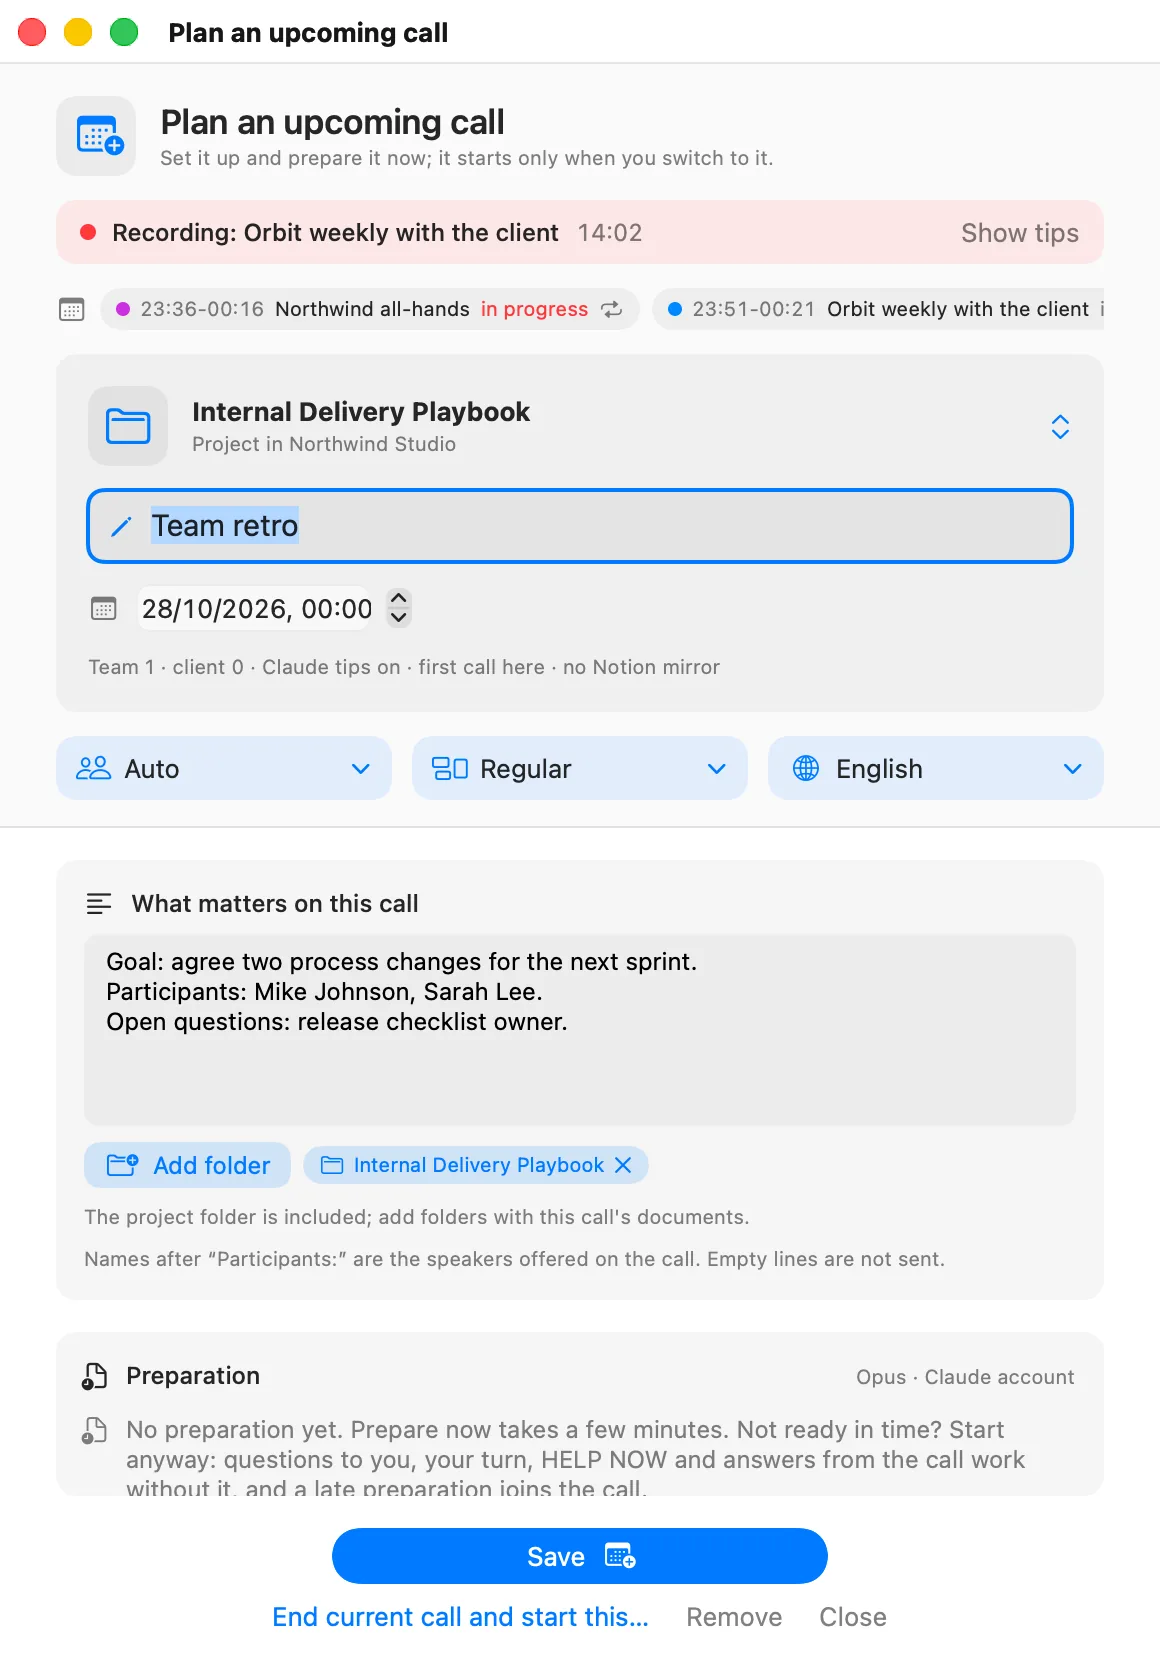
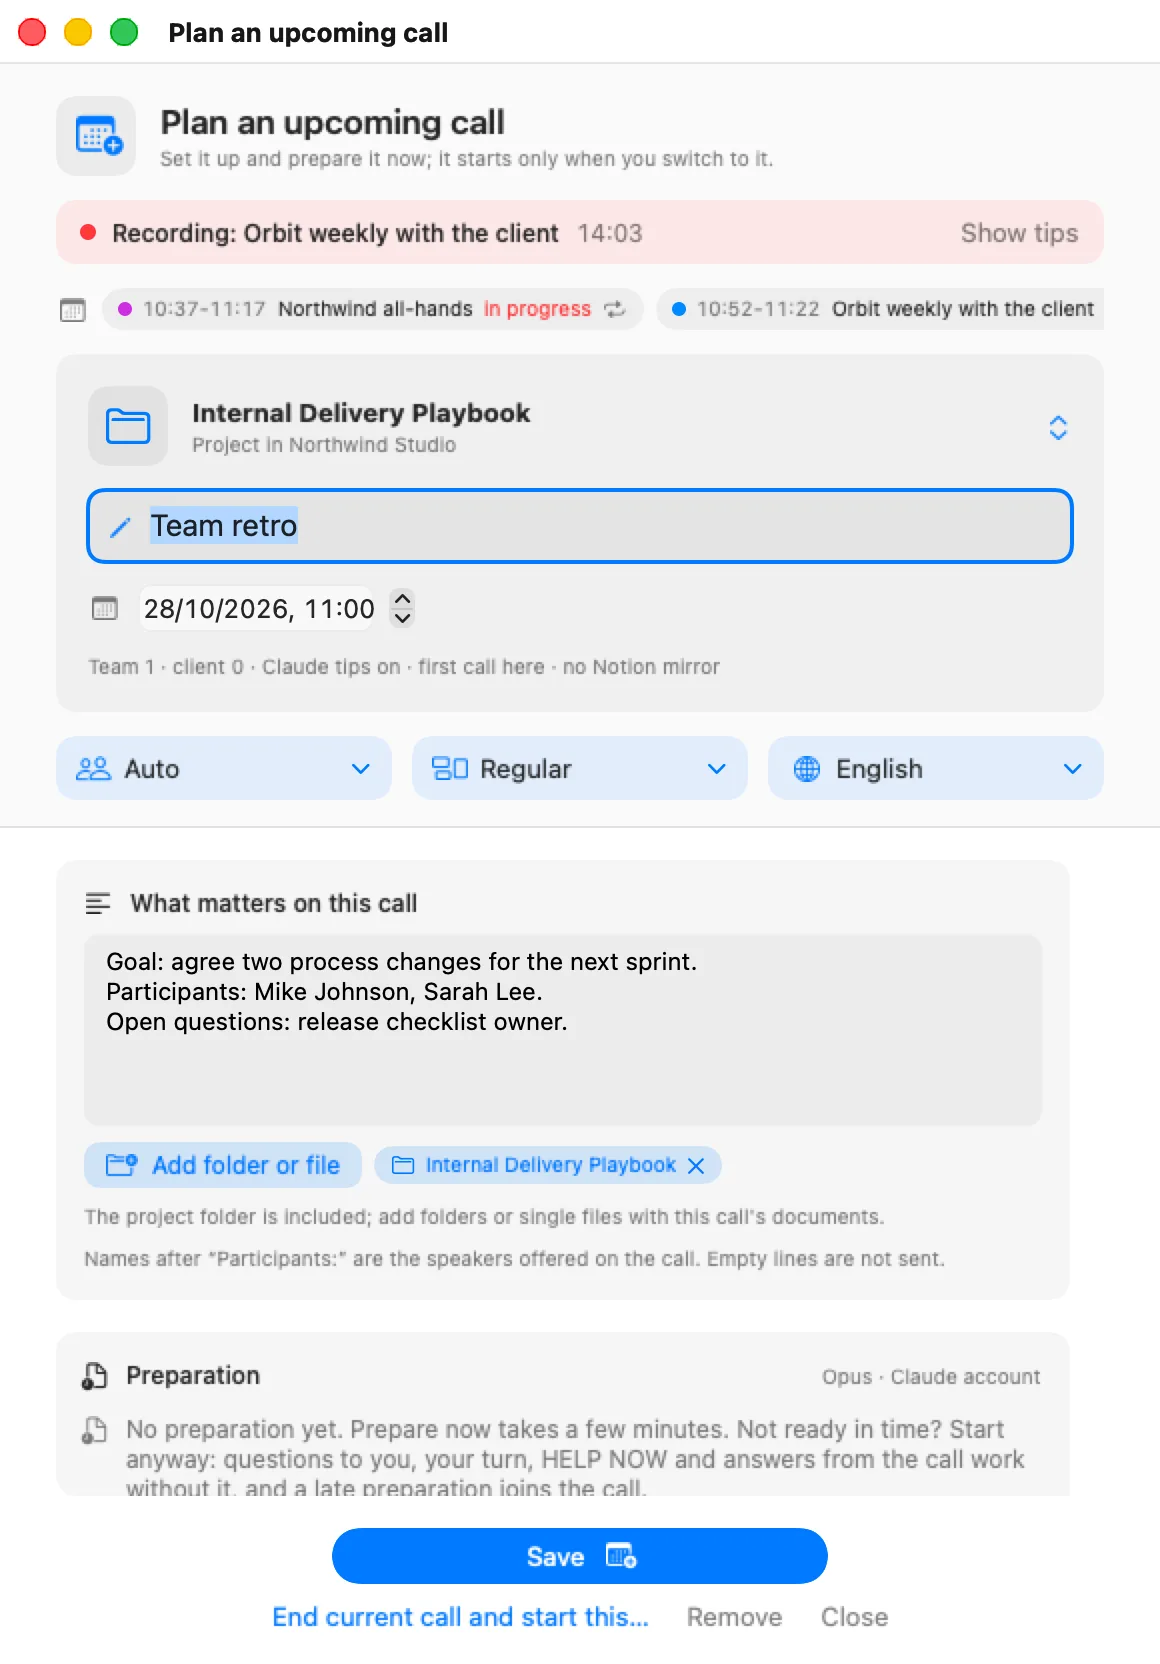
Live Tips 0.7.2: add folder or file; refreshed Start call and Prepare shots
Claude-Session: https://claude.ai/code/session_011gj7yXV1CHodtL8oe3gkkZ

diff --git a/src/content/pages/en/live-tips.md b/src/content/pages/en/live-tips.md
@@ -7,7 +7,7 @@ facts:
   - { k: Audio, v: "Stays on your Mac" }
   - { k: Cost, v: "Free app, about $0.2-0.8 of Claude per call" }
   - { k: Notes go to, v: "Notion and your project folder" }
-  - { k: Status, v: "beta 0.7.1" }
+  - { k: Status, v: "beta 0.7.2" }
 ---
 
 <div class="aimix">
@@ -63,7 +63,7 @@ Real screenshots of the app on demo data. The pictures follow the site's light o
 <div class="gallery">
 <figure class="ltshot ltshot--wide"><img class="ltshot__img ltshot--dark" src="/live-tips/shots/home-dark.webp" alt="" loading="lazy" decoding="async" /><img class="ltshot__img ltshot--light" src="/live-tips/shots/home-light.webp" alt="" loading="lazy" decoding="async" /><figcaption><b>Home.</b> The calls ahead from your calendars and Up next (overlaps marked), insights for a period, project or workspace (calls, time, Claude spend, prepared calls, minutes per day) and the calls already held with Notion, transcript and folder.</figcaption></figure>
 <figure class="ltshot ltshot--wide"><img class="ltshot__img ltshot--dark" src="/live-tips/shots/tips-dark.webp" alt="" loading="lazy" decoding="async" /><img class="ltshot__img ltshot--light" src="/live-tips/shots/tips-light.webp" alt="" loading="lazy" decoding="async" /><figcaption><b>On the call.</b> The transcript with named speakers (Team or Client), what is on you, the call summary, answers to your questions and the Help button.</figcaption></figure>
-<figure class="ltshot"><img class="ltshot__img ltshot--dark" src="/live-tips/shots/start-call-dark.webp" alt="" loading="lazy" decoding="async" /><img class="ltshot__img ltshot--light" src="/live-tips/shots/start-call-light.webp" alt="" loading="lazy" decoding="async" /><figcaption><b>Start call.</b> The project, the call's name and time, audience, type and languages, what matters on this call and the folders to read, Prepare now.</figcaption></figure>
+<figure class="ltshot"><img class="ltshot__img ltshot--dark" src="/live-tips/shots/start-call-dark.webp" alt="" loading="lazy" decoding="async" /><img class="ltshot__img ltshot--light" src="/live-tips/shots/start-call-light.webp" alt="" loading="lazy" decoding="async" /><figcaption><b>Start call.</b> The project, the call's name and time, audience, type and languages, what matters on this call and the folders or files to read, Prepare now.</figcaption></figure>
 <figure class="ltshot"><img class="ltshot__img ltshot--dark" src="/live-tips/shots/plan-call-dark.webp" alt="" loading="lazy" decoding="async" /><img class="ltshot__img ltshot--light" src="/live-tips/shots/plan-call-light.webp" alt="" loading="lazy" decoding="async" /><figcaption><b>Up next.</b> During a call, plan the next one: set it up and prepare it now, switch to it when this call ends.</figcaption></figure>
 <figure class="ltshot"><img class="ltshot__img ltshot--dark" src="/live-tips/shots/prepare-dark.webp" alt="" loading="lazy" decoding="async" /><img class="ltshot__img ltshot--light" src="/live-tips/shots/prepare-light.webp" alt="" loading="lazy" decoding="async" /><figcaption><b>Prepare.</b> Before a preparation: the project or workspace and what matters on the call, filled from the last call of a regular meeting.</figcaption></figure>
 <figure class="ltshot ltshot--wide"><img class="ltshot__img ltshot--dark" src="/live-tips/shots/tips-presentation-dark.webp" alt="" loading="lazy" decoding="async" /><img class="ltshot__img ltshot--light" src="/live-tips/shots/tips-presentation-light.webp" alt="" loading="lazy" decoding="async" /><figcaption><b>Presentation mode.</b> Your slides with the speech, a timer per slide and the tips next to them.</figcaption></figure>

diff --git a/src/content/pages/uk/changelog.md b/src/content/pages/uk/changelog.md
@@ -12,6 +12,7 @@ facts:
 
 | Версія | Дата | Що змінилось |
 |---|---|---|
+| Live Tips 0.7.2 beta | 2026-10-28 | **Add folder or file:** Start call і форма Prepare приймають цілі папки або окремі файли (один документ із Downloads, а не всю папку); у формі Prepare тепер теж є ця кнопка. |
 | Live Tips 0.7.1 beta | 2026-10-28 | **Виправлення карток на місці:** заголовок, фраза і пункти картки, прибрати пункти чи картку; On me: прибрати, виправити, додати. Виправлення діють до кінця дзвінка і йдуть у підсумок Notion як правда. **Підготовка як документ:** панель Preparation поруч із підказками і Read prep до дзвінка, обидва з редагуванням; підказки одразу перечитують виправлену підготовку. Менше, але точніших карток з попередніх зустрічей (скіл v55). |
 | Live Tips 0.7.0 beta | 2026-10-28 | **Інтерактивні Insights на Home:** період (сьогодні, цей чи минулий тиждень, місяць, 30 днів, свої дати) і проєкт чи воркспейс, клік по дню на графіку, дзвінки вибірки. **Глибша підготовка:** останні 3 дзвінки тієї самої зустрічі читаються повністю, а бриф має розділ Previous meetings (що обговорювали, питання і чи на них відповіли, відкриті пункти, action items з відповідальними і статусом). У вузькому Home Insights зверху і нижчі, у широкому поруч із дзвінками; недавні дзвінки показують 8 і Show all. |
 | Live Tips 0.6.9 beta | 2026-10-27 | **Home першим.** Сайт і аппка відкриваються з Home; у широкому вікні цей тиждень стоїть поруч із дзвінками. **Цифри можна сховати для демо:** Settings > General ховає цифри тижня, графік і місячні витрати. Нові скріни: Home, Prepare. |

diff --git a/src/content/pages/en/changelog.md b/src/content/pages/en/changelog.md
@@ -12,6 +12,7 @@ facts:
 
 | Version | Date | What changed |
 |---|---|---|
+| Live Tips 0.7.2 beta | 2026-10-28 | **Add folder or file:** Start call and the Prepare form take whole folders or single files (one document from Downloads, not the whole folder); the Prepare form now has the button too. |
 | Live Tips 0.7.1 beta | 2026-10-28 | **Correct cards in place:** edit a card's heading, phrase and points, remove points or the card; On me: remove, correct, add. Corrections stay for the call and go to the Notion summary as true. **The preparation as a document:** a Preparation pane next to the tips and Read prep before the call, both editable; the tips reload a corrected preparation at once. Fewer, surer cards from previous meetings (skill v55). |
 | Live Tips 0.7.0 beta | 2026-10-28 | **Interactive insights on Home:** choose the period (today, this or last week, this month, 30 days, your dates) and a project or workspace, click a day in the chart to see it, open the calls of the selection. **Deeper preparation:** the last 3 calls of the same meeting are read in full, and the brief gets a Previous meetings section (what was discussed, questions and whether they were answered, open items, action items with owners and status). A narrow Home shows insights on top, lower; a wide one next to the calls; recent calls show 8 with Show all. |
 | Live Tips 0.6.9 beta | 2026-10-27 | **Home first.** The site and the app open on Home; a wide Home puts this week next to the calls. **Numbers off for a demo:** Settings > General hides this week's numbers, the chart and the monthly spend. New screenshots: Home, Prepare. |

diff --git a/src/content/pages/uk/live-tips.md b/src/content/pages/uk/live-tips.md
@@ -7,7 +7,7 @@ facts:
   - { k: Звук, v: "Лишається на вашому Маку" }
   - { k: Вартість, v: "Застосунок безкоштовний, Claude близько $0.2-0.8 за дзвінок" }
   - { k: Нотатки йдуть у, v: "Notion і папку проєкту" }
-  - { k: Статус, v: "бета 0.7.1" }
+  - { k: Статус, v: "бета 0.7.2" }
 ---
 
 <div class="aimix">
